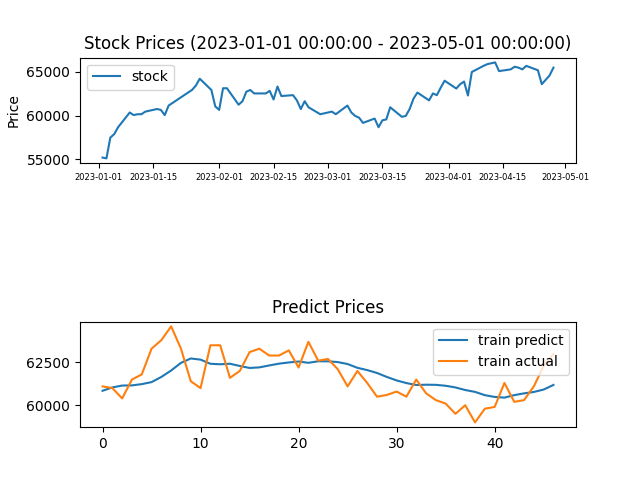
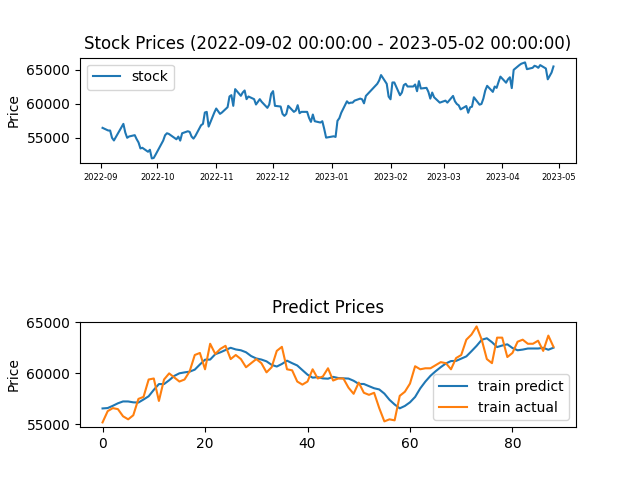
update_look_back

diff --git a/templates/result.html b/templates/result.html
@@ -1,17 +1,20 @@
 <!DOCTYPE html>
 <html>
 <head>
+    <link rel = "stylesheet" type="text/css" href = "{{ url_for('static', filename='stock.css') }}">    
     <title>Result</title>
 </head>
 <body>
-    <p>Stock Name : {{ stock_name }}</p>
-    <p>Code: {{ code }}</p>
-    <p>Start Date: {{ s_date }}</p>
-    <p>End Date: {{ e_date }}</p>
-    <P>선택기간 데이터 학습 결과에 따른 향후 예측</P>
-    <p>{{ train_Y }}</p>
-    <p>tommorow predict: {{ tomorrow_pred }}</p>
-    <p>Graph(상:실제, 하:향후예측)</p>
+    <div class="dv1">
+        <p>Stock Name : {{ stock_name }}</p>
+        <p>Code: {{ code }}</p>
+        <p>Start Date: {{ s_date }}</p>
+        <p>End Date: {{ e_date }}</p>
+        <P>선택기간 데이터 학습 결과에 따른 향후 예측</P>
+        <p>{{ train_Y }}</p>
+        <p>tommorow predict: {{ tomorrow_pred }}</p>
+        <p>Graph(상:실제, 하:향후예측)</p>
+    </div>
     <img src="{{ url_for('static', filename='graph.png') }}" alt="graph">
 </body>
 </html>

diff --git a/templates/index.html b/templates/index.html
@@ -13,6 +13,8 @@
         <p>코스피 .KS, 코스닥 .KQ(example : 삼성전자 코드번호 005930, 코스피 종목 => 005930.KS 입력)</p>
         <label for="code">Code:</label>
         <input type="text" id="code" name="code"><br><br>
+        <label for="new_look_back">look_back:</label>
+        <input type="number" id="new_look_back" name="new_look_back"><br><br>
         <input type="submit" value="Submit">
     </form>
 </body>

diff --git a/templates/test.html b/templates/test.html
@@ -1,0 +1,15 @@
+<!DOCTYPE html>
+<html>
+<head>
+    <meta charset="UTF-8">
+    <title>Input Form</title>
+</head>
+<body>
+    <form method="POST" action="/testresult">
+
+        <label for="new_look_back">look_back:</label>
+        <input type="number" id="new_look_back" name="new_look_back"><br><br>
+        <input type="submit" value="Submit">
+    </form>
+</body>
+</html>

diff --git a/templates/testresult.html b/templates/testresult.html
@@ -1,0 +1,13 @@
+<!DOCTYPE html>
+<html>
+<head>
+    <link rel = "stylesheet" type="text/css" href = "{{ url_for('static', filename='stock.css') }}">    
+    <title>Result</title>
+</head>
+<body>
+    <div class="dv1">
+        <p1>hi</p1>
+    </div>
+    <img src="{{ url_for('static', filename='graph.png') }}" alt="graph">
+</body>
+</html>

diff --git a/static/stock.css b/static/stock.css
@@ -1,0 +1,3 @@
+.dv1{
+    background-color: skyblue;
+}

diff --git a/priceflow/look_backN.py b/priceflow/look_backN.py
@@ -5,11 +5,10 @@ from sklearn.preprocessing import MinMaxScaler
 from tensorflow.keras.models import Sequential
 from tensorflow.keras.layers import Dense, LSTM
 import matplotlib.pyplot as plt
-from tensorflow.keras import backend as K
-import tensorflow as tf
+import os
+import datetime
 
 
-# 데이터 가져오기
 def load_data_scale(code, s_date, e_date):
     stock = yf.download(code, start=s_date, end=e_date)
     print(stock)
@@ -33,9 +32,7 @@ def create_dataset(dataset, look_back):
         Y.append(dataset[i + look_back, 0])
     return np.array(X), np.array(Y)
 
-def make_model(train, test, ref_back, epoch):
-    
-    # 입력 데이터 생성 (look_back = 50)
+def make_model(train, test, ref_back, epoch, scaler):
     look_back = ref_back
     train_X, train_Y = create_dataset(train, look_back)
     test_X, test_Y = create_dataset(test, look_back)
@@ -52,7 +49,6 @@ def make_model(train, test, ref_back, epoch):
 
     # 모델 학습
     model.fit(train_X, train_Y, epochs=epoch, batch_size=32, verbose=2)
-
     # 예측 결과
     train_predict = model.predict(train_X)
     test_predict = model.predict(test_X)
@@ -66,14 +62,14 @@ def make_model(train, test, ref_back, epoch):
 
     return train_predict, test_predict, train_Y, test_Y, train_X, tomorrow_pred
 
-def make_unscale(train_predict, test_predict, train_Y, test_Y):
+def make_unscale(train_predict, test_predict, train_Y, test_Y, scaler):
     # 정규화 된 값을 다시 원래의 값으로 변환
     train_predict = scaler.inverse_transform(train_predict)
     train_Y = scaler.inverse_transform([train_Y])
     test_predict = scaler.inverse_transform(test_predict)
     test_Y = scaler.inverse_transform([test_Y])
     # 예측값
-    print(train_Y)
+    # print(train_Y)
     # 실제값
     # print(test_Y)
     return train_predict, train_Y, test_predict, test_Y
@@ -89,44 +85,55 @@ def predict_to_df(train_predict, train_Y, test_predict, test_Y):
 def make_graph(train_predict_df, train_Y_df, code, s_date, e_date):
     stock_rd = yf.download(code, start=s_date, end=e_date)
     fig, (ax1, ax2) = plt.subplots(2,1)
+    fig.subplots_adjust(hspace=1.5)
     # Plot 1
     ax1.plot(stock_rd.index, stock_rd['Adj Close'], label='stock')
-    ax1.set_title('Stock Prices')
+
+    s_date = datetime.datetime.strptime(s_date, '%Y-%m-%d')
+    e_date = datetime.datetime.strptime(e_date, '%Y-%m-%d')
+    ax1.set_title('Stock Prices ({0} - {1})'.format(s_date, e_date))
+
     ax1.set_ylabel('Price')
+    ax1.tick_params(axis='x', labelsize=6)   
     ax1.legend()
     # Plot 2
     ax2.plot(train_predict_df, label='train predict')
     ax2.plot(train_Y_df, label='train actual')
+    ax2.set_title('Predict Prices')
+    ax2.set_ylabel('Price')
     ax2.legend()
+    # 저장 경로 설정
+    save_dir = os.path.join(os.getcwd(), 'static')
+    if not os.path.exists(save_dir):
+        os.makedirs(save_dir)
+    save_path = os.path.join(save_dir, 'graph.png')
+    # 그래프 저장
+    plt.savefig(save_path)
+    return save_path
     # plt.show()
 
-def process(s_date, e_date, code):
-    epoch = 30
+def process(s_date, e_date, code, new_look_back):
+    epoch = 100
     # ref_back(start 4월 1일 end 4월 30일 ref_bake 10 이면 3월 20일~ 4월 20일 까지 데이터 이용)
-    ref_back = 5
+    ref_back = int(new_look_back)
+    print(type(ref_back))
     scaler, train, test = load_data_scale(code, s_date, e_date)
-    train_predict, test_predict, train_Y, test_Y, train_X, tomorrow_pred = make_model(train, test, ref_back, epoch)
-    train_predict, train_Y, test_predict, test_Y = make_unscale(train_predict, test_predict, train_Y, test_Y)
+    train_predict, test_predict, train_Y, test_Y, train_X, tomorrow_pred = make_model(train, test, ref_back, epoch, scaler)
+
+    train_predict, train_Y, test_predict, test_Y = make_unscale(train_predict, test_predict, train_Y, test_Y, scaler)
     train_predict_df, train_Y_df = predict_to_df(train_predict, train_Y, test_predict, test_Y)
 
-
-
     make_graph(train_predict_df, train_Y_df, code, s_date, e_date)
-    
-    
+    return train_Y, test_Y, tomorrow_pred
+
 if __name__=='__main__':
-    s_date = '2023-03-01'
+    s_date = '2022-03-01'
     e_date = '2023-04-30'
     # 코스닥 종목은 .KQ / 코스피 종목은 .KS
     code = '005930.KS'
-    epoch = 30
-    # ref_back(start 4월 1일 end 4월 30일 ref_bake 10 이면 3월 20일~ 4월 20일 까지 데이터 이용)
-    ref_back = 5
-    scaler, train, test = load_data_scale(code, s_date, e_date)
-    train_predict, test_predict, train_Y, test_Y, train_X = make_model(train, test, ref_back, epoch)
-    train_predict, train_Y, test_predict, test_Y = make_unscale(train_predict, test_predict, train_Y, test_Y)
-    train_predict_df, train_Y_df = predict_to_df(train_predict, train_Y, test_predict, test_Y)
-    make_graph(train_predict_df, train_Y_df, code, s_date, e_date)
-    # train_X = make_model2(train, test, ref_back)
-    # predict_price(code, s_date, e_date, ref_back, '2023-05-01', train_X)
+    new_look_back = 20
+    process(s_date, e_date, code, new_look_back)
+    
+    
+
   

diff --git a/app.py b/app.py
@@ -1,5 +1,6 @@
 from flask import Flask, request, render_template
 from priceflow import tendays
+from priceflow import look_backN
 import yfinance as yf
 
 app = Flask(__name__)
@@ -13,11 +14,25 @@ def result():
     s_date = request.form['s_date']
     e_date = request.form['e_date']
     code = request.form['code']
+    new_look_back = request.form['new_look_back']
     stock_info = yf.Ticker(code).info
     stock_name = stock_info['longName']    
-    train_Y, test_Y, tomorrow_pred = tendays.process(s_date, e_date, code)
+    train_Y, test_Y, tomorrow_pred = tendays.process(s_date, e_date, code, new_look_back)
     return render_template('result.html', s_date=s_date, e_date=e_date, code=code, stock_name=stock_name, train_Y=train_Y, test_Y=test_Y, tomorrow_pred = tomorrow_pred)
 
+@app.route('/test')
+def test():
+
+    return render_template('test.html')
+@app.route('/testresult', methods=['POST'])
+def testresult():
+    new_look_back = request.form['new_look_back']
+    s_date = '2022-03-01'
+    e_date = '2023-04-30'
+    # 코스닥 종목은 .KQ / 코스피 종목은 .KS
+    code = '005930.KS'    
+    lookback = look_backN.process(s_date, e_date, code, new_look_back)
+    return render_template('testresult.html')
 
 if __name__ == '__main__':
     app.run(debug=True)

diff --git a/priceflow/tendays.py b/priceflow/tendays.py
@@ -112,10 +112,11 @@ def make_graph(train_predict_df, train_Y_df, code, s_date, e_date):
     return save_path
     # plt.show()
 
-def process(s_date, e_date, code):
+def process(s_date, e_date, code, new_look_back):
     epoch = 100
     # ref_back(start 4월 1일 end 4월 30일 ref_bake 10 이면 3월 20일~ 4월 20일 까지 데이터 이용)
-    ref_back = 10
+    ref_back = int(new_look_back)
+    print(type(ref_back))
     scaler, train, test = load_data_scale(code, s_date, e_date)
     train_predict, test_predict, train_Y, test_Y, train_X, tomorrow_pred = make_model(train, test, ref_back, epoch, scaler)
 
@@ -125,7 +126,12 @@ def process(s_date, e_date, code):
     make_graph(train_predict_df, train_Y_df, code, s_date, e_date)
     return train_Y, test_Y, tomorrow_pred
 
-
+# if __name__=='__main__':
+#     s_date = '2023-03-01'
+#     e_date = '2023-04-30'
+#     # 코스닥 종목은 .KQ / 코스피 종목은 .KS
+#     code = '005930.KS'
+#     process(s_date, e_date, code)
     
     
 
